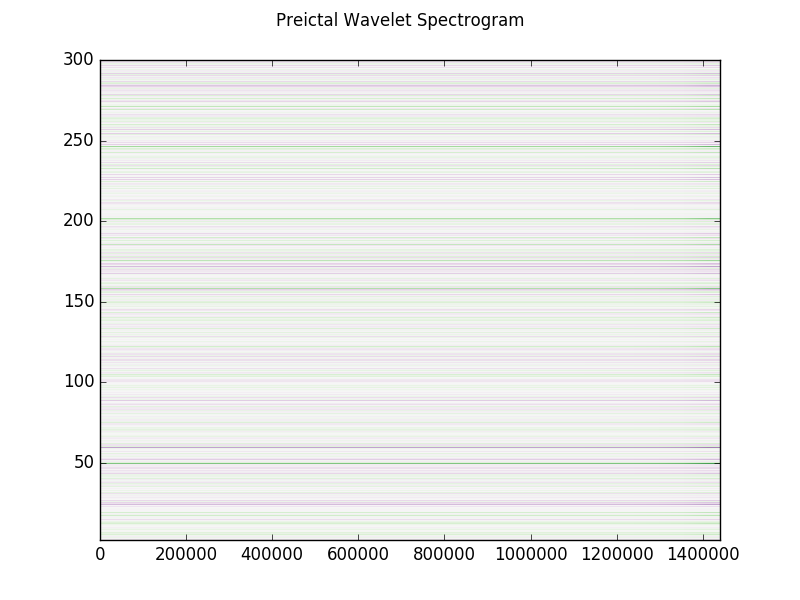
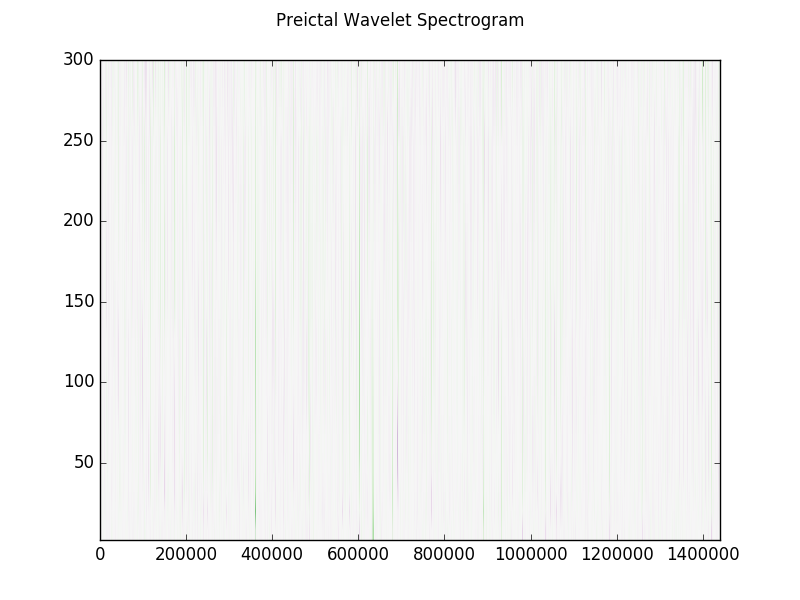
Another try

diff --git a/code/visualizations.py b/code/visualizations.py
@@ -116,7 +116,7 @@ def wavelet_spectrogram(mat, title, name):
 
     # pool = multiprocessing.Pool(40)
     # output = pool.map(continuous_wavelet_tranformation, mat.T)
-
+    freq = return_frequencies()
     result = np.array([])
     for i in range(16):
         if i == 0:
